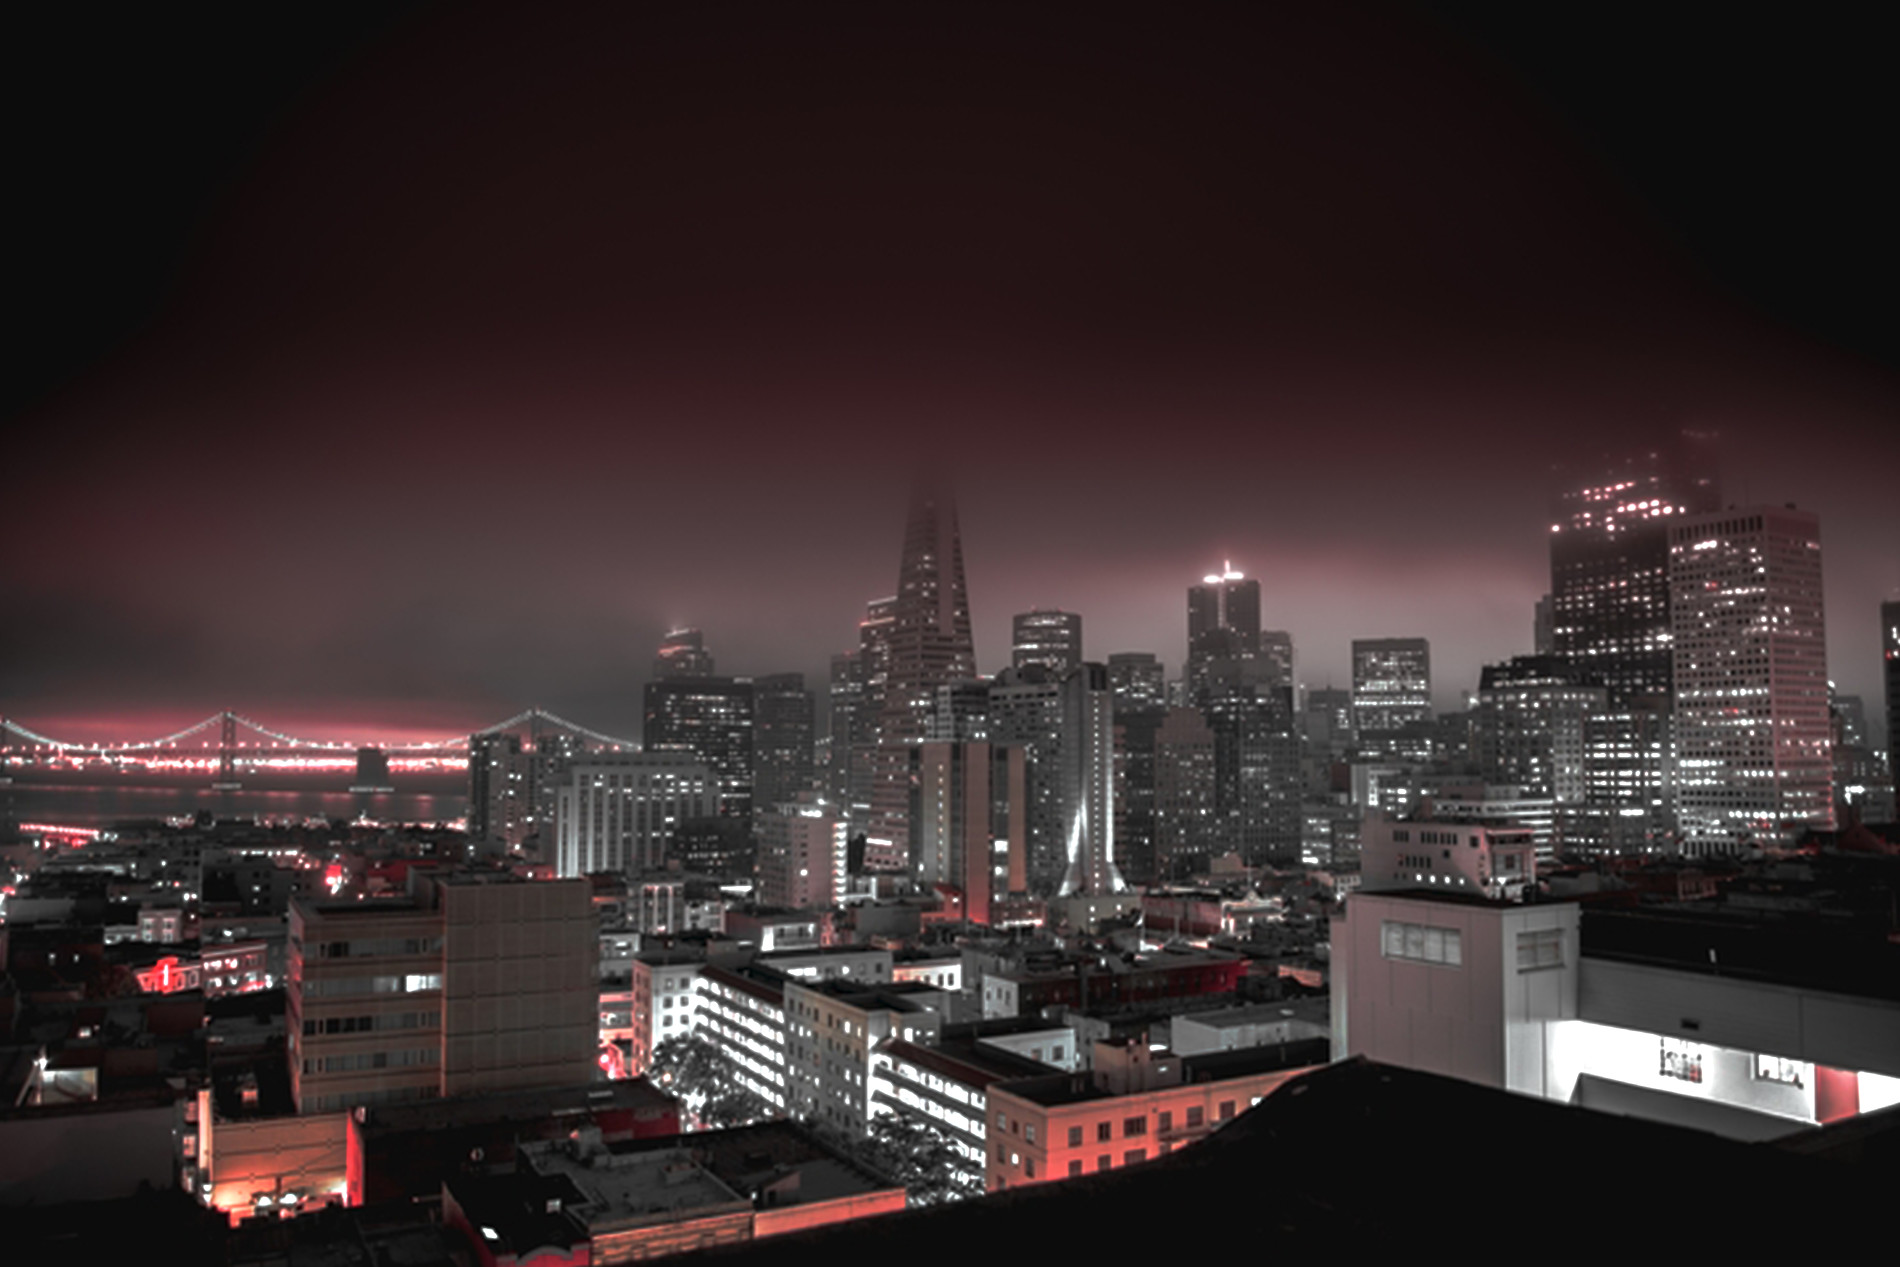
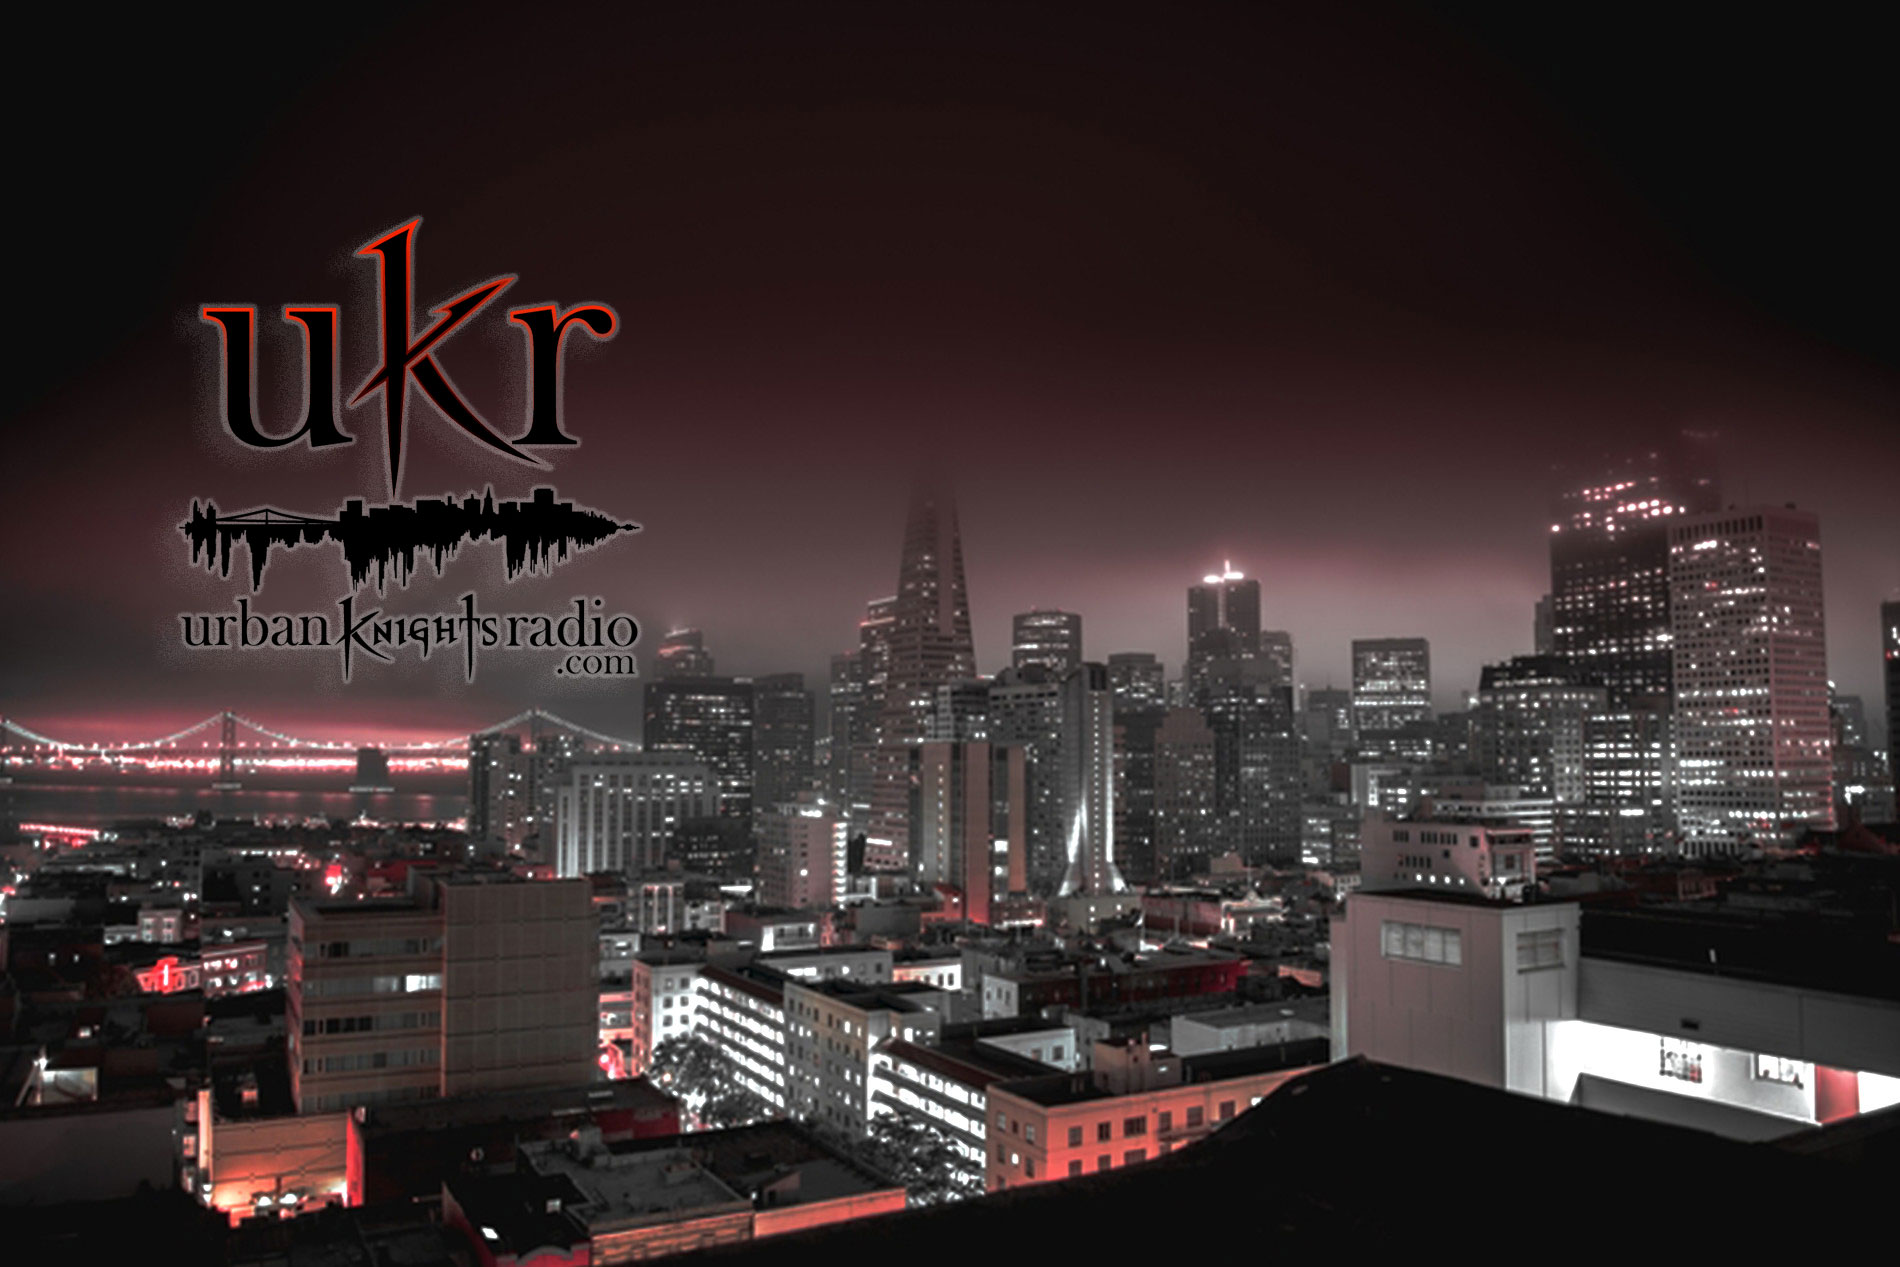
Updated header

Changed region(s): [[0.0932, 0.1539, 0.3416, 0.5541]]

diff --git a/index.html b/index.html
@@ -23,6 +23,7 @@
     <link href="vendor/magnific-popup/magnific-popup.css" rel="stylesheet">
 
     <!-- Theme CSS -->
+ <!--    <link href="css/creative.css" rel="stylesheet"> -->
     <link href="css/creative.min.css" rel="stylesheet">
 
     <!-- HTML5 Shim and Respond.js IE8 support of HTML5 elements and media queries -->
@@ -80,11 +81,6 @@
         <header>
             <div class="header-content">
                 <div class="header-content-inner">
-                   <!--  <h1 id="homeHeading"><img src="img/urban-knights.png"></h1> -->
-                   <h1 id="homeHeading">Urban Knights Radio<small> The Sound of Artists</small></h1>
-                   <hr>
-
-
                </div>
            </div>
        </header>
@@ -153,7 +149,7 @@
         <div class="col-lg-4">
             <iframe width="385" height="315" src="https://www.youtube.com/embed/COiS7jjDloU" frameborder="0" allowfullscreen></iframe>
         </div>
-        <div class="col-md-4">
+        <div class="col-lg-4">
             <iframe width="385" height="315" src="https://www.youtube.com/embed/akxdom_W5js" frameborder="0" allowfullscreen></iframe>
         </div>
     </div>
@@ -231,7 +227,7 @@
     <div class="container-fluid">
         <div class="row no-gutter popup-gallery">
             <div class="col-lg-4 col-sm-6">
-                <a href="img/portfolio/fullsize/1.jpg" class="portfolio-box">
+                <a href="img/kyomi.jpg" class="portfolio-box">
                     <img src="img/kyomi.jpg" class="img-responsive" alt="">
                     <div class="portfolio-box-caption">
                         <div class="portfolio-box-caption-content">
@@ -246,7 +242,7 @@
                 </a>
             </div>
             <div class="col-lg-4 col-sm-6">
-                <a href="img/portfolio/fullsize/2.jpg" class="portfolio-box">
+                <a href="img/alex.jpg" class="portfolio-box">
                     <img src="img/alex.jpg" class="img-responsive" alt="">
                     <div class="portfolio-box-caption">
                         <div class="portfolio-box-caption-content">
@@ -261,7 +257,7 @@
              </a>
          </div>
          <div class="col-lg-4 col-sm-6">
-            <a href="img/portfolio/fullsize/3.jpg" class="portfolio-box">
+            <a href="img/brett.jpg" class="portfolio-box">
                 <img src="img/brett.jpg" class="img-responsive" alt="">
                 <div class="portfolio-box-caption">
                     <div class="portfolio-box-caption-content">
@@ -276,7 +272,7 @@
          </a>
      </div>
      <div class="col-lg-4 col-sm-6">
-        <a href="img/portfolio/fullsize/4.jpg" class="portfolio-box">
+        <a href="img/jacoby.jpg" class="portfolio-box">
             <img src="img/jacoby.jpg" class="img-responsive" alt="">
             <div class="portfolio-box-caption">
                 <div class="portfolio-box-caption-content">
@@ -291,7 +287,7 @@
      </a>
  </div>
  <div class="col-lg-4 col-sm-6">
-    <a href="img/portfolio/fullsize/5.jpg" class="portfolio-box">
+    <a href="img/jazelle.jpg" class="portfolio-box">
         <img src="img/jazelle.jpg" class="img-responsive" alt="">
         <div class="portfolio-box-caption">
             <div class="portfolio-box-caption-content">
@@ -306,7 +302,7 @@
  </a>
 </div>
 <div class="col-lg-4 col-sm-6">
-    <a href="img/portfolio/fullsize/6.jpg" class="portfolio-box">
+    <a href="img/donte.jpg" class="portfolio-box">
         <img src="img/donte.jpg" class="img-responsive" alt="">
         <div class="portfolio-box-caption">
             <div class="portfolio-box-caption-content">
@@ -321,7 +317,7 @@
  </a>
 </div>
 <div class="col-lg-4 col-sm-6">
-    <a href="img/portfolio/fullsize/6.jpg" class="portfolio-box">
+    <a href="img/silvio.jpg" class="portfolio-box">
         <img src="img/silvio.jpg" class="img-responsive" alt="">
         <div class="portfolio-box-caption">
             <div class="portfolio-box-caption-content">
@@ -336,7 +332,22 @@
  </a>
 </div>
 <div class="col-lg-4 col-sm-6">
-    <a href="img/portfolio/fullsize/6.jpg" class="portfolio-box">
+    <a href="img/silvio.jpg" class="portfolio-box">
+        <img src="img/silvio.jpg" class="img-responsive" alt="">
+        <div class="portfolio-box-caption">
+            <div class="portfolio-box-caption-content">
+                <div class="project-category text-faded">
+                    Silvio
+                </div>
+                <div class="project-name">
+                 Name of show
+             </div>
+         </div>
+     </div>
+ </a>
+</div>
+<div class="col-lg-4 col-sm-6">
+    <a href="img/prefranz.jpg" class="portfolio-box">
         <img src="img/prefranz.jpg" class="img-responsive" alt="">
         <div class="portfolio-box-caption">
             <div class="portfolio-box-caption-content">

diff --git a/css/creative.css b/css/creative.css
@@ -15,6 +15,11 @@
 .bg-primary {
     /* background-color: #000; */
 },
+
+/*#ukr {
+    margin-top: 400px;
+    width: 500px;
+},*/
 /*Additonal CSS End*/
 
 html,
